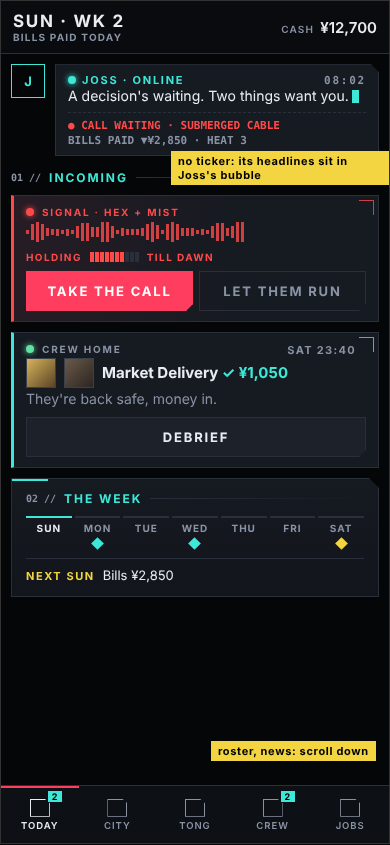
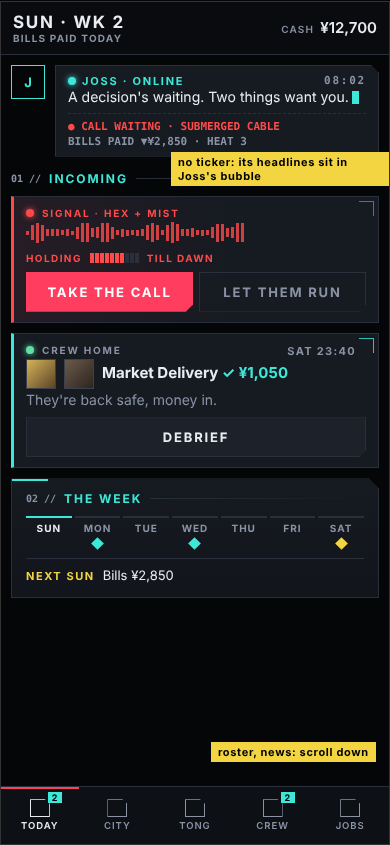
Mockups: a calm HUD desk (decoration only where attention is needed), and clean copies without notes

diff --git a/docs/mockups/2026-11-24-today-command.html b/docs/mockups/2026-11-24-today-command.html
@@ -63,7 +63,13 @@ h1.page{font:700 22px var(--display);letter-spacing:.08em;margin:0 0 6px}.note{c
 .pm{padding:10px;display:grid;gap:10px;align-content:start;overflow:hidden}
 .btab{display:grid;grid-template-columns:repeat(5,1fr);border-top:1px solid var(--line);background:#0d1014}.btab a{display:flex;flex-direction:column;align-items:center;justify-content:center;gap:3px;font:600 9.5px var(--display);letter-spacing:.1em;color:var(--muted);position:relative}.btab a.on{color:var(--text);box-shadow:inset 0 2px 0 var(--accent)}.btab .ico{width:20px;height:18px;border:1.6px solid currentColor;clip-path:polygon(0 0,75% 0,100% 25%,100% 100%,0 100%)}.btab .pill{position:absolute;top:5px;left:calc(50% + 8px);background:var(--accent-2);color:#000;font:700 9px var(--display);padding:0 4px}
 .heads{margin:6px 0 0;padding:6px 0 0;border-top:1px dashed var(--line);font:600 11px var(--mono);color:var(--muted);display:grid;gap:2px}.heads .r{color:var(--danger)}
+
+body.clean .ann{display:none}
+.prog{display:flex;align-items:center;gap:8px;margin:2px 0 8px;font:700 10px var(--display);letter-spacing:.14em;color:var(--muted)}
+.card.q{border-left-color:#2f3a46}.card.q .kick{color:var(--muted)}
+.ph.q .code{display:none}
 </style></head><body>
+<script>if(location.search.includes('clean'))document.body.classList.add('clean')</script>
 <h1 class="page">TODAY AS A COMMAND CENTRE · MOCKUPS</h1>
 <p class="note">The desk as it is now (left, for reference), then three ways to push it towards a command centre. Same busy Sunday as the desk's capture: a call waiting, a crew back, a find in the stash, one hurt. iPad on its side, 1000×690. Yellow tags are notes, not part of the design.</p>
 <div id="out"></div>
@@ -115,6 +121,18 @@ ${stash(1)}</section></div>
 <section class="panel"><div class="ph"><span class="code">03 //</span>ROSTER<span class="r">4 FREE / 9</span></div><div class="out"><span class="led y"></span>1 crew out · <b style="color:var(--warn)">1 call waiting</b><span class="go">CITY ›</span></div><div class="roster w">${[['HEX','c','OUT','b'],['MIST','c','OUT',''],['SPOOL','y','HURT 6D',''],['SENSOR','y','HURT 2D','b'],['PIGEON','y','TIRED','']].map(([n,c,st,f])=>`<div class="op"><span class="face ${f}"></span>${n}<span class="st"><span class="led ${c}"></span>${st}</span></div>`).join('')}<div class="op more">+4<small>FREE</small></div></div></section>
 <section class="panel"><div class="ph"><span class="code">04 //</span>INTERCEPTS<span class="r">LIVE</span></div><div class="tl"><div><b>SUN</b><span class="tg">FINANCE</span>Week 2 settled: +¥1,700</div><div><b>SAT</b><span class="tg">JOB</span>Hex and Mist out on Submerged Cable</div><div><b>WORD</b><span class="tg y">STREET</span>Neon Dragon Court drops Arjun Thapa<span class="caret"></span></div></div></section></div></div></div>`+ann(640,228,'kept from 1: the next thing in full')+ann(760,326,'kept: the call waiting line')+ann(700,424,'only who isn’t free; the rest one tile')+ann(250,428,'kept: Joss’s line and the time'),
  cap:'<b>4 · THE HUD, KEEPING THE BEST OF 1 (THE ONE TO BUILD).</b> Option 2\'s ticker, signal card (both answers), week track and roster, plus what 1 had: the next thing on the track in full under it (the bill with its split), the crew-out line with the call waiting and its link to City, the returned crew\'s card with Joss\'s line and the time, Joss online with the cursor, brackets on every card. The roster shows only runners who aren\'t free (out, hurt with days left, tired), then one tile for the free ones, so a crew of 9 or 15 is still one row. Tap a day on the track for its full list.'},
+
+
+{name:'5',rows:'auto auto 1fr',body:`<div class="ticker"><b>LANTERN BAY // STREET</b><span>NEON DRAGON COURT DROPS ARJUN THAPA</span><span>·</span><span>LENA COSTA SIGNS WITH NEON DRAGON COURT</span><span>·</span><span>JADE MANTIS HAND CALLED IN GLASS HEIGHTS</span></div><div class="body">${rail}<div class="main"><div class="col"><section class="panel">
+<div class="joss"><span class="av">J</span><div class="bub"><div class="nm"><span class="led c"></span>JOSS · ONLINE</div>There's a decision waiting for us. You don't have to solve the whole week, just this bit. Two things want you.</div></div>
+<div class="ph q"><span class="code">01 //</span>NEEDS YOU</div>
+<div class="card u brk brk2"><div class="kick"><span class="led r"></span>CALL-IN · SUBMERGED CABLE</div><h4>Hex and Mist need a call</h4><div class="wave">${Array.from({length:60},(_,i)=>`<i style="height:${4+Math.abs(Math.sin(i*0.7)*Math.cos(i*0.23))*14}px"></i>`).join('')}</div><div class="prog">STOP 2 OF 3 ${g(3,2,'r')}</div><div style="display:flex;gap:6px"><span class="btn p">TAKE THE CALL</span><span class="btn g">LET THEM RUN</span></div></div>
+<div class="card q"><div style="display:flex;gap:10px;align-items:center"><span class="face b"></span><span class="face"></span><div style="flex:1"><h4>Market Delivery is back <span style="color:var(--accent-2)">✓ ¥1,050</span></h4><p style="margin:0">They're back safe, money in. Well done, all of us.</p></div><span class="btn">DEBRIEF</span></div></div>
+<div class="card q"><div style="display:flex;gap:10px;align-items:center"><div style="flex:1"><h4>Gilded Bull <span style="color:var(--muted);font-weight:400">and 2 more · best for Spool</span></h4></div><span class="btn">GIVE TO SPOOL</span></div></div></section></div>
+<div class="col"><section class="panel"><div class="ph q"><span class="code">02 //</span>THE WEEK</div><div class="week">${[['SUN','now',''],['MON','','c'],['TUE','',''],['WED','','c'],['THU','',''],['FRI','',''],['SAT','','y']].map(([d,n,m],i)=>`<div class="${n}">${d}${m?`<span class="m ${m}"></span>`:''}<small>${['today','freelancers','','scout','','','Spool well'][i]}</small></div>`).join('')}</div><div class="next"><b>NEXT SUN</b>Bills ¥2,850<span class="mono">WAGES 1,350 · RENT 1,500</span></div></section>
+<section class="panel"><div class="ph q"><span class="code">03 //</span>ROSTER<span class="r">4 FREE / 9</span></div><div class="roster w">${[['HEX','c','OUT','b'],['MIST','c','OUT',''],['SPOOL','y','HURT 6D',''],['SENSOR','y','HURT 2D','b'],['PIGEON','y','TIRED','']].map(([n,c,st,f])=>`<div class="op"><span class="face ${f}"></span>${n}<span class="st"><span class="led ${c}"></span>${st}</span></div>`).join('')}<div class="op more">+4<small>FREE</small></div></div></section>
+<section class="panel"><div class="ph q"><span class="code">04 //</span>INTERCEPTS</div><div class="tl"><div><b>SUN</b><span class="tg">FINANCE</span>Week 2 settled: +¥1,700</div><div><b>SAT</b><span class="tg">JOB</span>Hex and Mist out on Submerged Cable</div><div><b>SAT</b><span class="tg p">RUMOUR</span>A clean job</div></div></section></div></div></div>`,
+ cap:'<b>5 · THE CALM HUD.</b> The same pieces with one rule: decoration only where attention is needed. Only the call gets the light, the brackets and the signal (now with something true under it: Stop 2 of 3). The other cards are plain rows with their answer on the right. The ticker carries only street news, never what is on a card already. No section numbers, fewer readouts, no crew-out line (the call card says it). Heavier days still look calm, because the call is the only thing lit.'},
 
 ];
 document.getElementById('out').innerHTML=F.map(f=>`<div class="frame" id="f${f.name}" style="${f.rows?`grid-template-rows:${f.rows}`:''}">${topbar}${f.body}</div><p class="cap">${f.cap}</p>`).join('');
